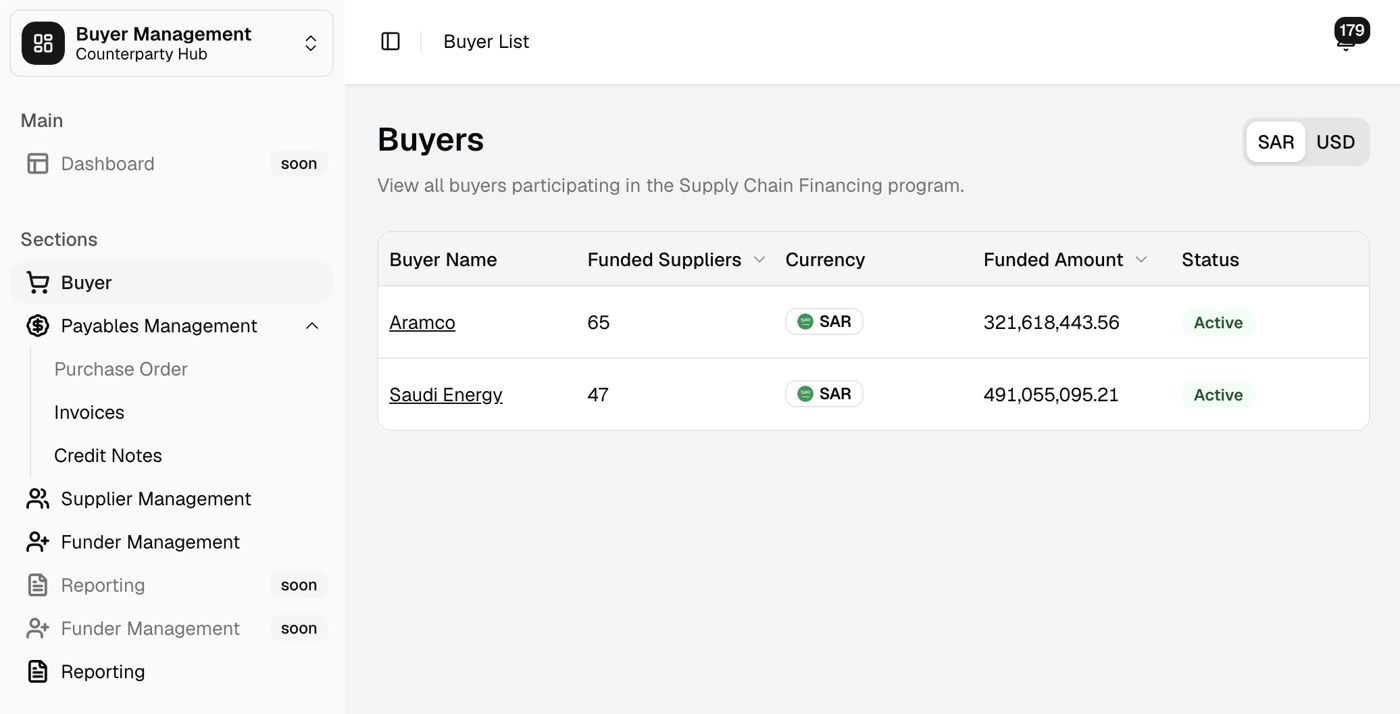
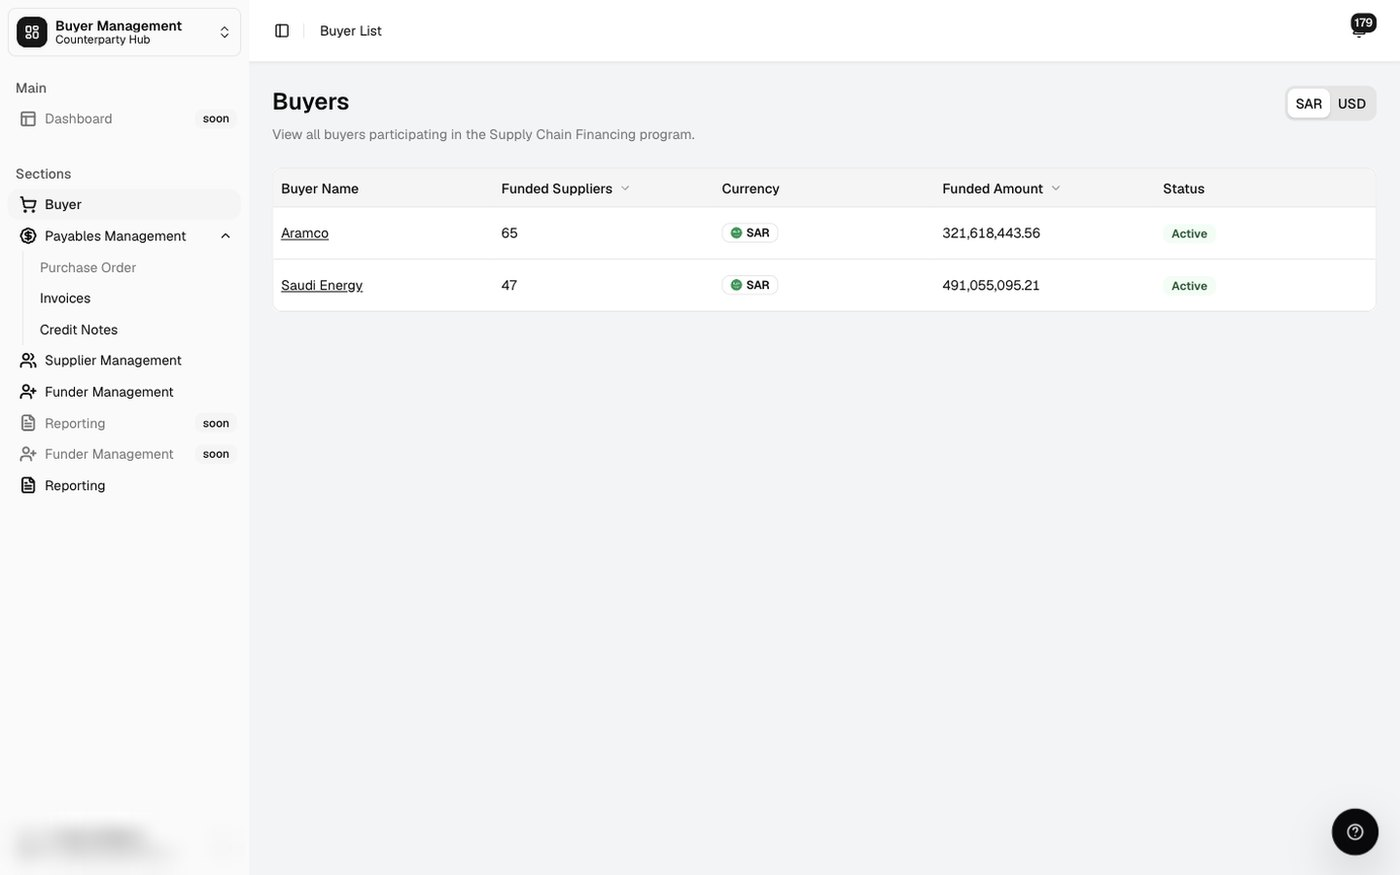
Show delivered features as screenshot carousels on FinOps, BMP and CRM slides (release env, names blurred)

diff --git a/index.html b/index.html
@@ -8,7 +8,7 @@
   <link rel="preconnect" href="https://fonts.googleapis.com">
   <link rel="preconnect" href="https://fonts.gstatic.com" crossorigin>
   <link href="https://fonts.googleapis.com/css2?family=Alexandria:wght@100..900&display=swap" rel="stylesheet">
-  <link rel="stylesheet" href="style.css?v=20261025-flags">
+  <link rel="stylesheet" href="style.css?v=20261025-shots">
 </head>
 <body>
 <main class="deck" aria-label="SCF Digital Products weekly presentation">
@@ -503,32 +503,34 @@
           <div class="mod"><div class="mod-name"><strong>Reconciliation</strong><a class="tag" href="https://manafaco.atlassian.net/browse/DF-4111" target="_blank" rel="noopener">DF-4111</a></div><span class="mod-rel">R65</span><div class="mod-bar" data-bar="testing:14"></div><span class="chip wait">Held from prod</span></div>
           <div class="mod"><div class="mod-name"><strong>R67 backlog · 5 items</strong></div><span class="mod-rel">R67</span><div class="mod-note">EP statuses, funder monitoring ph. 2, Taulia, int’l IBANs</div><span class="chip idle">Scoping</span></div>
         </div>
-        <figure class="card shot-frame" data-finops-carousel>
+        <figure class="card shot-frame" data-carousel aria-label="SCF FinOps screens">
           <header>
-            <strong id="finops-shot-title">SCF FinOps · Dashboard (R65)</strong>
+            <strong data-shot-title>SCF FinOps · Dashboard (R65)</strong>
             <div class="shot-nav">
-              <button id="finops-shot-prev" type="button" aria-label="Previous screenshot">←</button>
-              <span id="finops-shot-count" aria-live="polite">1 / 4</span>
-              <button id="finops-shot-next" type="button" aria-label="Next screenshot">→</button>
+              <button data-shot-prev type="button" aria-label="Previous screenshot">←</button>
+              <span data-shot-count aria-live="polite">1 / 6</span>
+              <button data-shot-next type="button" aria-label="Next screenshot">→</button>
             </div>
           </header>
           <div class="shot-viewport">
-            <div class="finops-shot is-current" data-title="SCF FinOps · Dashboard (R65)" data-caption="New dashboard: financed, outstanding and delayed loans, suppliers financed and SAMA program capacity."><img src="assets/scf-finops-dashboard.jpg" alt="SCF FinOps dashboard"></div>
+            <div class="finops-shot is-current" data-title="SCF FinOps · Dashboard (R65)" data-caption="Financed, outstanding and delayed loans, suppliers financed and SAMA program capacity."><img src="assets/scf-finops-dashboard.jpg" alt="SCF FinOps dashboard"></div>
+            <div class="finops-shot" data-title="SCF FinOps · Funder details (R64–R65)" data-caption="Funder profile with program limits, utilisation and reach; financing summary, integrations and accounts tabs."><img src="assets/scf-finops-funder-details.jpg" alt="SCF FinOps funder details"></div>
+            <div class="finops-shot" data-title="SCF FinOps · Loans (R65)" data-caption="All SCF loans across buyers, suppliers and funders, with settled, pending, delayed and overdue totals."><img src="assets/scf-finops-loans.jpg" alt="SCF FinOps loans"></div>
             <div class="finops-shot" data-title="SCF FinOps · Early Payments" data-caption="Operational totals, filters and transaction-level visibility in one view."><img src="assets/scf-finops-early-payments.jpg" alt="SCF FinOps Early Payments workspace"></div>
             <div class="finops-shot" data-title="SCF FinOps · Invoices" data-caption="A consolidated invoice view across buyer programs, suppliers and statuses."><img src="assets/scf-finops-invoices.jpg" alt="SCF FinOps Invoices workspace"></div>
             <div class="finops-shot" data-title="SCF FinOps · Early Payment Details" data-caption="Early payment information, linked instruments, documents and transaction timeline."><img src="assets/scf-finops-early-payment-details.jpg" alt="SCF FinOps Early Payment details"></div>
           </div>
           <footer>
-            <span id="finops-shot-caption">New dashboard: financed, outstanding and delayed loans, suppliers financed and SAMA program capacity.</span>
+            <span data-shot-caption>Financed, outstanding and delayed loans, suppliers financed and SAMA program capacity.</span>
             <div class="shot-dots">
-              <button class="is-current" type="button" data-finops-index="0" aria-label="Dashboard" aria-current="true"></button><button type="button" data-finops-index="1" aria-label="Early Payments" aria-current="false"></button><button type="button" data-finops-index="2" aria-label="Invoices" aria-current="false"></button><button type="button" data-finops-index="3" aria-label="Early Payment Details" aria-current="false"></button>
+              <button class="is-current" type="button" data-shot-index="0" aria-label="SCF FinOps dashboard" aria-current="true"></button><button type="button" data-shot-index="1" aria-label="SCF FinOps funder details" aria-current="false"></button><button type="button" data-shot-index="2" aria-label="SCF FinOps loans" aria-current="false"></button><button type="button" data-shot-index="3" aria-label="SCF FinOps Early Payments workspace" aria-current="false"></button><button type="button" data-shot-index="4" aria-label="SCF FinOps Invoices workspace" aria-current="false"></button><button type="button" data-shot-index="5" aria-label="SCF FinOps Early Payment details" aria-current="false"></button>
             </div>
           </footer>
         </figure>
       </div>
     </div>
 
-    <footer class="slide-foot"><img src="assets/manafa-logo.svg" alt="Manafa"><span class="src">Jira DF fix versions and R65 sprint tickets, 25 Oct 2026. Screens: dashboard from release environment (25 Oct); others from R61 build.</span><span class="pg"></span></footer>
+    <footer class="slide-foot"><img src="assets/manafa-logo.svg" alt="Manafa"><span class="src">Jira DF fix versions and R65 sprint tickets, 25 Oct 2026. Screens: dashboard, funder details and loans from release environment (25 Oct); others from R61 build.</span><span class="pg"></span></footer>
   </section>
 
   <!-- ======================== PLATFORM · Buyer Management Platform ======================== -->
@@ -560,15 +562,31 @@
           <div class="mod"><div class="mod-name"><strong>Internal user permissions</strong><a class="tag" href="https://manafaco.atlassian.net/browse/DF-4653" target="_blank" rel="noopener">DF-4653</a></div><span class="mod-rel">Next</span><div class="mod-note">No sprint tickets yet</div><span class="chip idle">Planned</span></div>
           <div class="mod"><div class="mod-name"><strong>Phase 2</strong><a class="tag" href="https://manafaco.atlassian.net/browse/DF-4506" target="_blank" rel="noopener">DF-4506</a></div><span class="mod-rel">Next</span><div class="mod-note">Scope after phase 1</div><span class="chip idle">Planned</span></div>
         </div>
-        <figure class="card shot-frame">
-          <header><strong>Buyer Management · Buyer list</strong><a class="tag" style="color:var(--light-blue)" href="https://manafaco.atlassian.net/browse/DF-4495" target="_blank" rel="noopener">DF-4495 ↗</a></header>
-          <div class="shot-viewport"><div class="finops-shot is-current static"><img src="assets/bmp-buyers.jpg" alt="Buyer Management Platform buyer list"></div></div>
-          <footer><span>Buyers in the SCF program with funded suppliers, funded amount and status. Purchase orders and dashboard marked “soon”.</span></footer>
+        <figure class="card shot-frame" data-carousel aria-label="Buyer Management screens">
+          <header>
+            <strong data-shot-title>Buyer Management · Buyer list (DF-4468)</strong>
+            <div class="shot-nav">
+              <button data-shot-prev type="button" aria-label="Previous screenshot">←</button>
+              <span data-shot-count aria-live="polite">1 / 3</span>
+              <button data-shot-next type="button" aria-label="Next screenshot">→</button>
+            </div>
+          </header>
+          <div class="shot-viewport">
+            <div class="finops-shot is-current" data-title="Buyer Management · Buyer list (DF-4468)" data-caption="Buyers in the SCF program with funded suppliers, funded amount and status."><img src="assets/bmp-buyers.jpg" alt="Buyer Management buyer list"></div>
+            <div class="finops-shot" data-title="Buyer Management · Buyer details (DF-4614)" data-caption="Buyer profile with programs, users, bank accounts and calendars; middleware (Taulia) now shown."><img src="assets/bmp-buyer-details.jpg" alt="Buyer Management buyer details"></div>
+            <div class="finops-shot" data-title="Buyer Management · Suppliers (DF-4640)" data-caption="Supplier list for all buyers with invited, registered, KYC, eligible and funded counts. Supplier names blurred."><img src="assets/bmp-suppliers.jpg" alt="Buyer Management supplier list"></div>
+          </div>
+          <footer>
+            <span data-shot-caption>Buyers in the SCF program with funded suppliers, funded amount and status.</span>
+            <div class="shot-dots">
+              <button class="is-current" type="button" data-shot-index="0" aria-label="Buyer Management buyer list" aria-current="true"></button><button type="button" data-shot-index="1" aria-label="Buyer Management buyer details" aria-current="false"></button><button type="button" data-shot-index="2" aria-label="Buyer Management supplier list" aria-current="false"></button>
+            </div>
+          </footer>
         </figure>
       </div>
     </div>
 
-    <footer class="slide-foot"><img src="assets/manafa-logo.svg" alt="Manafa"><span class="src">Jira DF fix versions and SCF BMP sprint (R65), 25 Oct 2026. Screen: release environment, 25 Oct.</span><span class="pg"></span></footer>
+    <footer class="slide-foot"><img src="assets/manafa-logo.svg" alt="Manafa"><span class="src">Jira DF fix versions and SCF BMP sprint (R65), 25 Oct 2026. Screens: release environment, 25 Oct.</span><span class="pg"></span></footer>
   </section>
 
   <!-- ======================== PLATFORM · Funder Management Platform ======================== -->
@@ -641,15 +659,31 @@
           <div class="mod"><div class="mod-name"><strong>Fund requests in CRM</strong><a class="tag" href="https://manafaco.atlassian.net/browse/DF-4657" target="_blank" rel="noopener">DF-4657</a></div><span class="mod-rel">R66</span><div class="mod-bar" data-bar="todo:6"></div><span class="chip idle">To do</span></div>
           <div class="mod"><div class="mod-name"><strong>Duplicate-lead block · permissions</strong><a class="tag" href="https://manafaco.atlassian.net/browse/DF-4681" target="_blank" rel="noopener">DF-4681</a></div><span class="mod-rel">R66</span><div class="mod-bar" data-bar="todo:2"></div><span class="chip idle">To do</span></div>
         </div>
-        <figure class="card shot-frame">
-          <header><strong>Manafa CRM · Dashboard</strong></header>
-          <div class="shot-viewport"><div class="finops-shot is-current static"><img src="assets/crm-dashboard.jpg" alt="Manafa CRM dashboard"></div></div>
-          <footer><span>Sales target, days per pipeline stage, deal outcomes and conversion rates. Commissions and contacts marked “soon”.</span></footer>
+        <figure class="card shot-frame" data-carousel aria-label="Manafa CRM screens">
+          <header>
+            <strong data-shot-title>Manafa CRM · Targets V2.0 (DF-3976)</strong>
+            <div class="shot-nav">
+              <button data-shot-prev type="button" aria-label="Previous screenshot">←</button>
+              <span data-shot-count aria-live="polite">1 / 3</span>
+              <button data-shot-next type="button" aria-label="Next screenshot">→</button>
+            </div>
+          </header>
+          <div class="shot-viewport">
+            <div class="finops-shot is-current" data-title="Manafa CRM · Targets V2.0 (DF-3976)" data-caption="Sales targets by type (fees, facility contracts, companies, leads) with target amount and progress."><img src="assets/crm-targets-v2.jpg" alt="Manafa CRM targets"></div>
+            <div class="finops-shot" data-title="Manafa CRM · Assignment rules (DF-4027)" data-caption="New rule set-up in three steps: define, conditions and assignments."><img src="assets/crm-assignment-rules.jpg" alt="Manafa CRM assignment rules"></div>
+            <div class="finops-shot" data-title="Manafa CRM · Teams (DF-4027)" data-caption="Teams management in CRM settings: create a team and add members for assignment rules."><img src="assets/crm-teams.jpg" alt="Manafa CRM teams"></div>
+          </div>
+          <footer>
+            <span data-shot-caption>Sales targets by type (fees, facility contracts, companies, leads) with target amount and progress.</span>
+            <div class="shot-dots">
+              <button class="is-current" type="button" data-shot-index="0" aria-label="Manafa CRM targets" aria-current="true"></button><button type="button" data-shot-index="1" aria-label="Manafa CRM assignment rules" aria-current="false"></button><button type="button" data-shot-index="2" aria-label="Manafa CRM teams" aria-current="false"></button>
+            </div>
+          </footer>
         </figure>
       </div>
     </div>
 
-    <footer class="slide-foot"><img src="assets/manafa-logo.svg" alt="Manafa"><span class="src">Jira CRM sprints R64–R66, 25 Oct 2026. Screen: staging environment, 25 Oct.</span><span class="pg"></span></footer>
+    <footer class="slide-foot"><img src="assets/manafa-logo.svg" alt="Manafa"><span class="src">Jira CRM sprints R64–R66, 25 Oct 2026. Screens: release environment, 25 Oct.</span><span class="pg"></span></footer>
   </section>
 
   <!-- ============================== 3 · RELEASE ============================== -->
@@ -893,6 +927,6 @@
 </nav>
 
 <script src="release-data.js?v=20261025-flags"></script>
-<script src="script.js?v=20261025-editorial"></script>
+<script src="script.js?v=20261025-shots"></script>
 </body>
 </html>

diff --git a/script.js b/script.js
@@ -196,26 +196,30 @@ if (releaseScopeRoot) {
   renderScope();
 }
 
-/* ---------- FinOps carousel ---------- */
-const carousel = document.querySelector("[data-finops-carousel]");
-const shots = carousel ? Array.from(carousel.querySelectorAll(".finops-shot")) : [];
-const dots = carousel ? Array.from(carousel.querySelectorAll("[data-finops-index]")) : [];
-let shotIndex = 0;
+/* ---------- Screenshot carousels (FinOps, BMP, CRM) ---------- */
+document.querySelectorAll("[data-carousel]").forEach((root) => {
+  const shots = Array.from(root.querySelectorAll(".finops-shot"));
+  const dots = Array.from(root.querySelectorAll("[data-shot-index]"));
+  const title = root.querySelector("[data-shot-title]");
+  const caption = root.querySelector("[data-shot-caption]");
+  const count = root.querySelector("[data-shot-count]");
+  let shotIndex = 0;
 
-function showShot(index) {
-  if (!shots.length) return;
-  shotIndex = (index + shots.length) % shots.length;
-  shots.forEach((s, i) => s.classList.toggle("is-current", i === shotIndex));
-  dots.forEach((d, i) => { d.classList.toggle("is-current", i === shotIndex); d.setAttribute("aria-current", String(i === shotIndex)); });
-  const s = shots[shotIndex];
-  document.getElementById("finops-shot-title").textContent = s.dataset.title || "SCF FinOps";
-  document.getElementById("finops-shot-caption").textContent = s.dataset.caption || "";
-  document.getElementById("finops-shot-count").textContent = `${shotIndex + 1} / ${shots.length}`;
-}
-document.getElementById("finops-shot-prev")?.addEventListener("click", (e) => { e.stopPropagation(); showShot(shotIndex - 1); });
-document.getElementById("finops-shot-next")?.addEventListener("click", (e) => { e.stopPropagation(); showShot(shotIndex + 1); });
-dots.forEach((d) => d.addEventListener("click", (e) => { e.stopPropagation(); showShot(Number(d.dataset.finopsIndex)); }));
-showShot(0);
+  function showShot(index) {
+    if (!shots.length) return;
+    shotIndex = (index + shots.length) % shots.length;
+    shots.forEach((s, i) => s.classList.toggle("is-current", i === shotIndex));
+    dots.forEach((d, i) => { d.classList.toggle("is-current", i === shotIndex); d.setAttribute("aria-current", String(i === shotIndex)); });
+    const s = shots[shotIndex];
+    if (title) title.textContent = s.dataset.title || "";
+    if (caption) caption.textContent = s.dataset.caption || "";
+    if (count) count.textContent = `${shotIndex + 1} / ${shots.length}`;
+  }
+  root.querySelector("[data-shot-prev]")?.addEventListener("click", (e) => { e.stopPropagation(); showShot(shotIndex - 1); });
+  root.querySelector("[data-shot-next]")?.addEventListener("click", (e) => { e.stopPropagation(); showShot(shotIndex + 1); });
+  dots.forEach((d) => d.addEventListener("click", (e) => { e.stopPropagation(); showShot(Number(d.dataset.shotIndex)); }));
+  showShot(0);
+});
 
 /* ---------- Roadmap dialogs ---------- */
 document.querySelectorAll("[data-roadmap-open]").forEach((b) => {

diff --git a/style.css b/style.css
@@ -956,4 +956,4 @@ button:focus-visible, a:focus-visible { outline: 3px solid var(--light-blue); ou
 .buyer li p { margin-top: 6px; font-size: 16px; line-height: 1.45; color: var(--muted); }
 .buyer .side { font-size: 15px; color: var(--muted); }
 .buyer .chip { justify-self: start; }
-.finops-shot.static img { object-fit: contain; object-position: top center; background: #fff; }
+.finops-shot.static img, [data-carousel] .finops-shot img { object-fit: contain; object-position: top center; background: #fff; }
